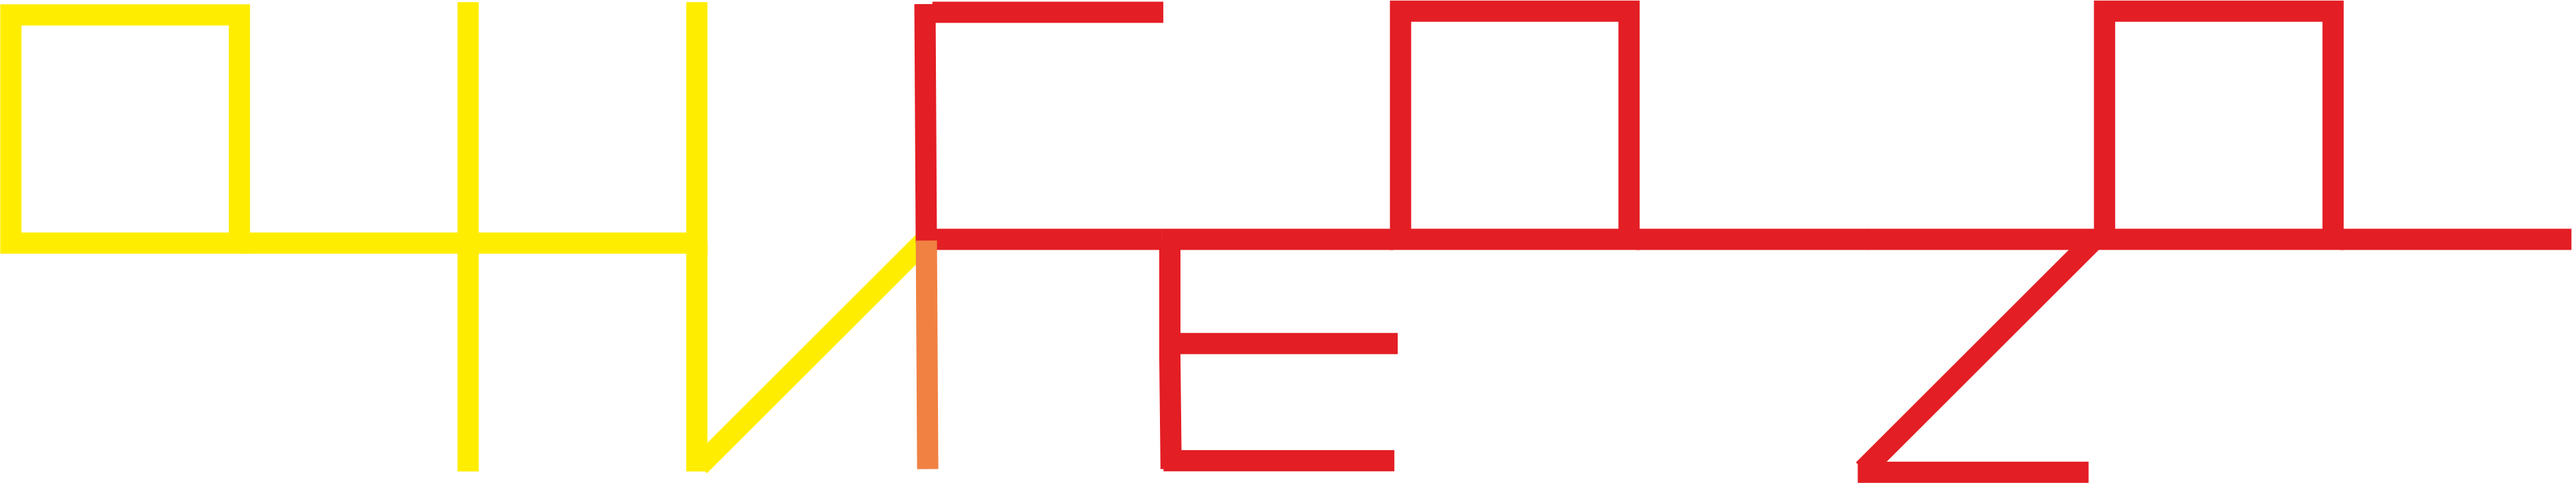
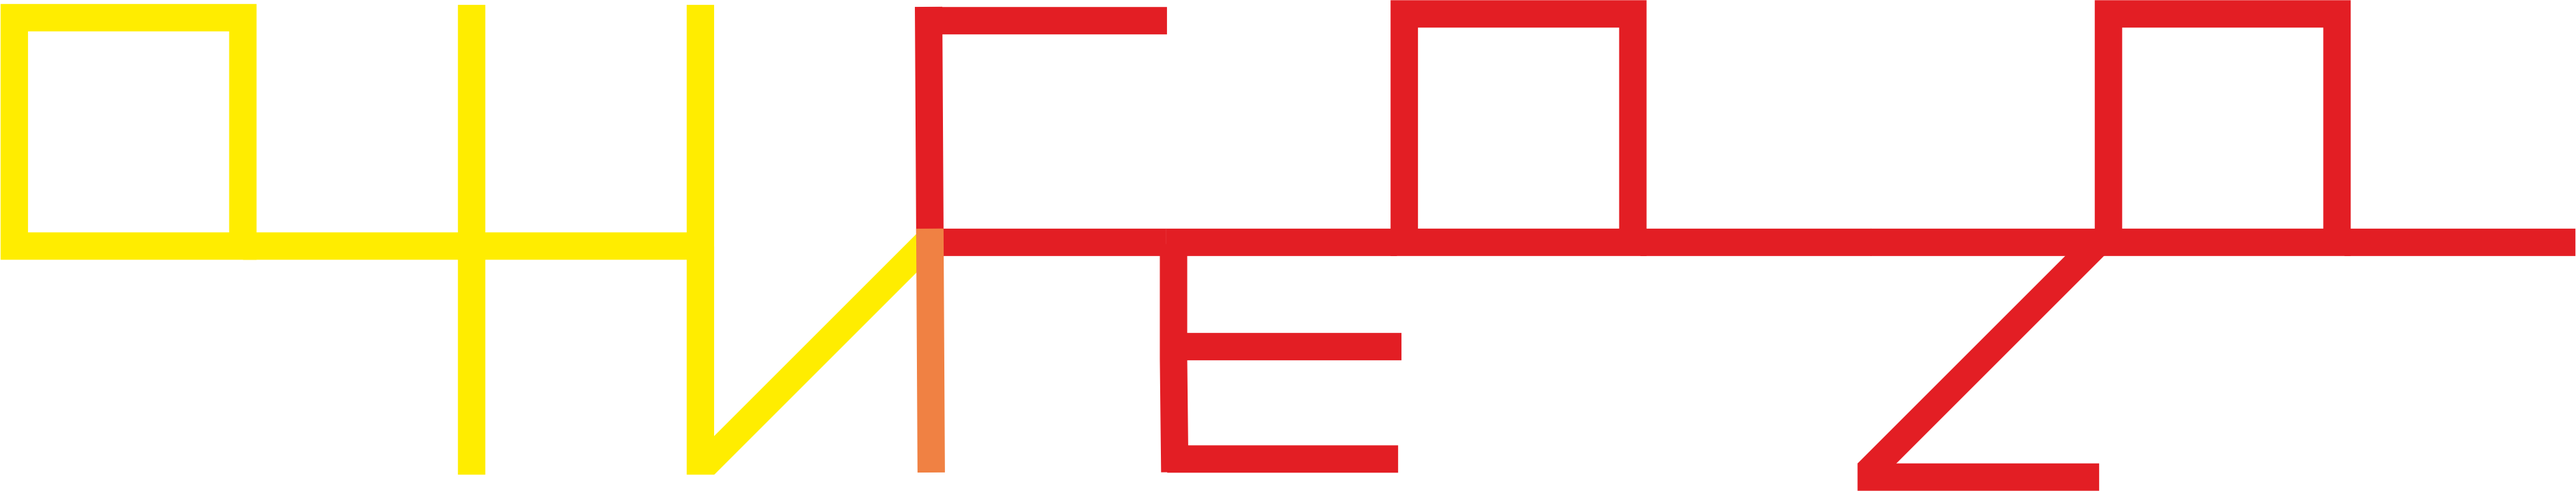
exxx

diff --git a/index.html b/index.html
@@ -65,7 +65,7 @@
             <div class="container">
                 <div class="col-1">
                     <a href="#">
-                        <img class="logo" src="/hohlova/images/footer.png" alt="logo" title="Главная">
+                        <img class="logo" src="/hohlova/images/footer2.png" alt="logo" title="Главная">
                     </a>
                 </div>
                 <div class="col-4">
